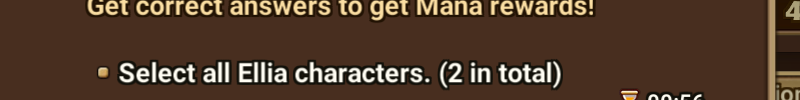
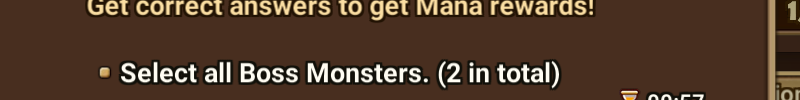
adjusted code

Changed region(s): [[0.0938, 0.6, 0.7188, 0.9], [0.9688, 0.0, 1.0, 0.21], [0.8438, 0.93, 0.9062, 1.0]]

diff --git a/image_bot/controller.py b/image_bot/controller.py
@@ -1,4 +1,4 @@
-from playback import initializePyAutoGUI,checkRunEnd,checkRefill,clickImage
+from playback import initializePyAutoGUI,checkRunEnd,checkRefill,clickImage,findImage
 from textrecogniztion import getLocationsCaptcha
 from time import sleep
 import numpy as np
@@ -29,7 +29,7 @@ def main():
     LOOP_REPITITIONS = 5500
     for i in range(0, LOOP_REPITITIONS):
         sold = False
-        sellRunes= False
+        sellRunes= True
 
         repeatEnd = checkRunEnd()
 
@@ -53,7 +53,7 @@ def main():
         #TODO CATCH 6STAR
 
         if sold:
-            for i in range(0,3):
+            for j in range(0,3):
                 sleep(np.random.rand(1)[0] *2.5)
                 clickState = clickImage(['sw_replay.png'])
                 if clickState:
@@ -70,28 +70,13 @@ def main():
             sleep(np.random.rand(1)[0] * 2.5)
 
             # catchBotException
-            quiz = getLocationsCaptcha()
-            print(quiz)
-            if quiz:
+            catchBot()
+            # completePurchase
+            completePurchaseStartRun()
 
-                clickImage(['sw_ok2.png'], confidence=0.8)
-            sleep(np.random.rand(1)[0] * 2.5)
-            print('Are we out?')
-
-            # TODO this one probably not necessary pay close attention next captcha
-            clickImage(['sw_ok.png'],confidence=0.8)
-            #
-
-            sleep(np.random.rand(1)[0] * 1.5)
-            clickImage(['sw_yes2.png'], confidence=0.8)
-            sleep(np.random.rand(1)[0] * 2.5)
-            clickImage(['sw_ok.png'], confidence=0.8)
-            sleep(np.random.rand(1)[0] * 2.5)
-            clickImage(['sw_close.png'])
-            sleep(np.random.rand(1)[0] * 1.5)
-            clickImage(['sw_repeat.png'])
-
-
+        checkPurchase = findImage('sw_purchasesuccess2.png',confidence =0.8)
+        if checkPurchase:
+            completePurchaseStartRun()
 
         print("sleeping for 10 sec")
         sleep(10)
@@ -102,8 +87,31 @@ def main():
 
 
 
+def catchBot():
+    quiz = getLocationsCaptcha('testScreenshot'+str(np.random.randint(0,10)))
+    if quiz:
+        clickImage(['sw_ok2.png'], confidence=0.8)
+        sleep(np.random.rand(1)[0] * 2.5)
+        # Verify we got out
+        for j in range(0, 2):
+            sleep(np.random.rand(1)[0] * .5)
+            imgState = findImage('sw_incorrect2.png')
+            if imgState:
+                clickImage(['sw_ok2.png'], confidence=0.8)
+                catchBot()
+                break
 
+    return True
 
-
+def completePurchaseStartRun():
+    clickImage(['sw_ok.png'], confidence=0.8)
+    sleep(np.random.rand(1)[0] * 1.5)
+    clickImage(['sw_yes2.png'], confidence=0.8)
+    sleep(np.random.rand(1)[0] * 2.5)
+    clickImage(['sw_ok.png'], confidence=0.8)
+    sleep(np.random.rand(1)[0] * 2.5)
+    clickImage(['sw_close.png'])
+    sleep(np.random.rand(1)[0] * 1.5)
+    clickImage(['sw_repeat.png'])
 if __name__ == "__main__":
     main()

diff --git a/image_bot/textrecogniztion.py b/image_bot/textrecogniztion.py
@@ -57,7 +57,7 @@ def getRegions(image_pos):
     adjusty = 0
 
     # actual try
-
+    #
     x -= 20
     y += 25
     adjustx = 15
@@ -91,7 +91,7 @@ def removeEntriesUntilTotal(numImages,matches,monsters=False):
 
     else:
         while len(matches) > numImages :
-            min = 10
+            min = 1000
             for index, i in enumerate(matches):
                 if min > i[0]:
                     min = i[0]
@@ -111,8 +111,8 @@ def cleanList(listToClean):
 
     return [i for j, i in enumerate(listToClean) if j not in indexList]
 
-def createScreenshot():
-    filename='testScreenshot.png'
+def createScreenshot(screenname='testScreenShot'):
+    filename=f'{screenname}.png'
     script_dir = os.path.dirname(__file__)
 
     needle_path = os.path.join(
@@ -125,7 +125,7 @@ def createScreenshot():
     print(image)
 
 
-def getLocationsCaptcha():
+def getLocationsCaptcha(screenname='testScreenShot'):
     images_to_check = [
         "sw_quiz.PNG",
         "sw_quiz2.PNG"
@@ -143,7 +143,7 @@ def getLocationsCaptcha():
         print(needle_path)
         image_pos = pyautogui.locateOnScreen(needle_path, grayscale="False", confidence=0.7)
         if image_pos:
-            createScreenshot()
+            createScreenshot(screenname)
             print("imageFound: {} at pos: {}".format(image_filename, image_pos))
             print(image_pos)
 
@@ -204,6 +204,7 @@ def getLocationsCaptcha():
                 for k,v in regionDict.items():
                     matchList.append(matchOrb(k,v,directory))
                 matches = list(filter(None, matchList))
+                # print(len(matches))
                 filteredMatches = removeEntriesUntilTotal(numImages,matches)
 
                 for i in filteredMatches:
@@ -232,7 +233,8 @@ def storeLocations(regionDict,script_dir):
             f'location_{k}.png'
         )
         img = np.array(pyautogui.screenshot(needle_path2, region=k))
-        dim = (130,130)
+        dim = (133,133)
+        # 133 133 seems best for detecting bosses
         resized = cv.resize(img, dim, interpolation=cv.INTER_AREA)
         cv.imwrite(f'{needle_path2}', resized)
         grayed = cv.imread(f'{needle_path2}', cv.IMREAD_GRAYSCALE)

diff --git a/image_bot/playback.py b/image_bot/playback.py
@@ -44,7 +44,6 @@ def clickImage(images_to_check,confidence =0.9):
             print("imageFound: {} at pos: {}".format(image_filename, image_pos))
             print(image_pos)
             center = pyautogui.center(image_pos)
-            width, height = pyautogui.size()
             pyautogui.click(np.random.normal(center.x,10), np.random.normal(center.y,10))
             sleep(np.abs(np.random.randn(1)[0]))
             return True
@@ -52,6 +51,21 @@ def clickImage(images_to_check,confidence =0.9):
     print('image not found')
     return False
 
+def findImage(images_to_check,confidence =0.9):
+    script_dir = os.path.dirname(__file__)
+    # print(__file__)
+
+    needle_path = os.path.join(
+        script_dir,
+        'needles',
+        images_to_check
+    )
+    image_pos = pyautogui.locateOnScreen(needle_path, grayscale="False", confidence=confidence)
+    if image_pos:
+        return True
+
+    # print('image not found')
+    return False
 def checkRunEnd():
     images_to_check = [
         "sw_Repeatbattleend.PNG"
